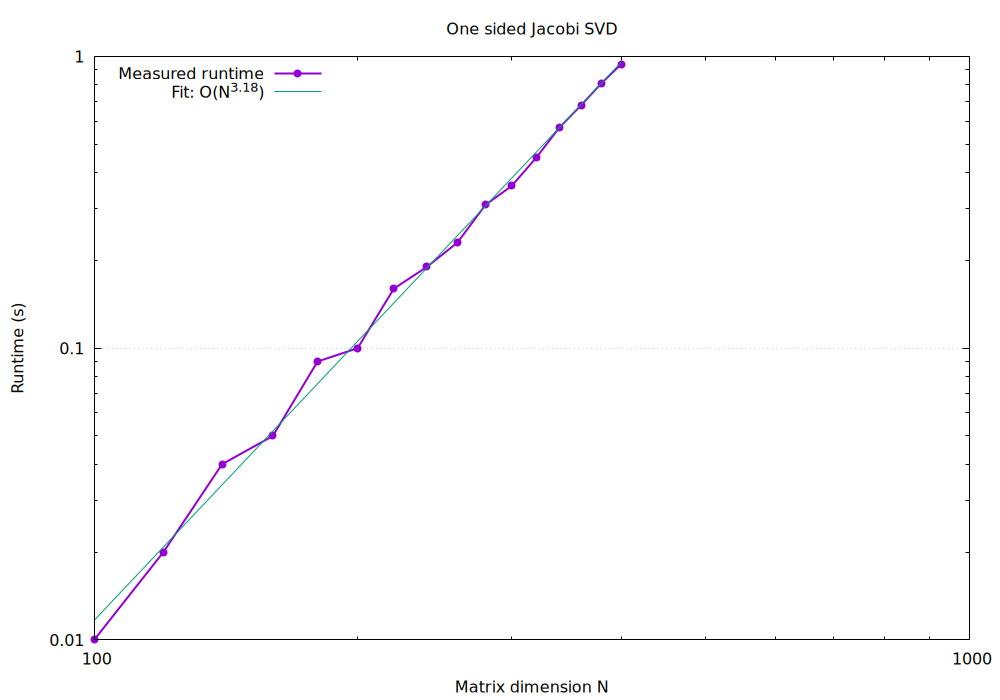
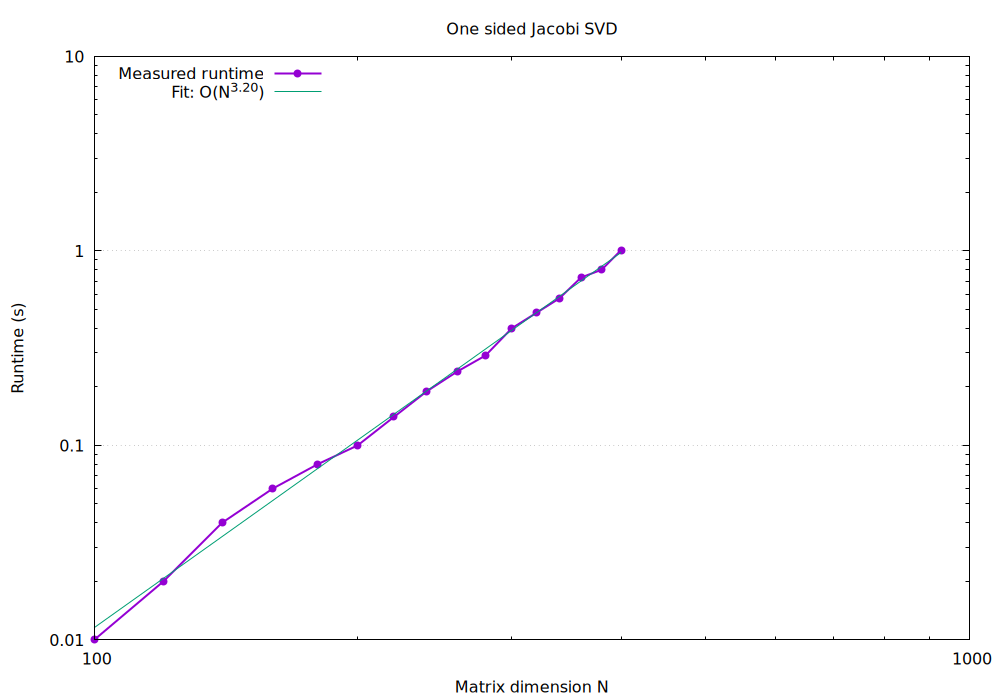
examproject done

diff --git a/examination_project/svd.h b/examination_project/svd.h
@@ -32,6 +32,7 @@ namespace pp{
             for(int p=0; p<n-1; p++){
                 for(int q = p+1; q < n; q++){
                     
+                    //From here
                     double apq = 0;
                     double app = 0;
                     double aqq = 0;
@@ -41,6 +42,8 @@ namespace pp{
                         app += A(i,p)*A(i,p);
                         aqq += A(i,q)*A(i,q);
                     }
+
+                    //To here is chat GPT
                 
                     if(fabs(apq) < epsilon) 
                         continue;
@@ -57,6 +60,7 @@ namespace pp{
 
         }while(changed);
 
+        //This part is made partly together with ChatGPT
         for(int j = 0; j < n; j++){
             double sigma = 0; 
                 for(int i = 0; i < n; i++) {
